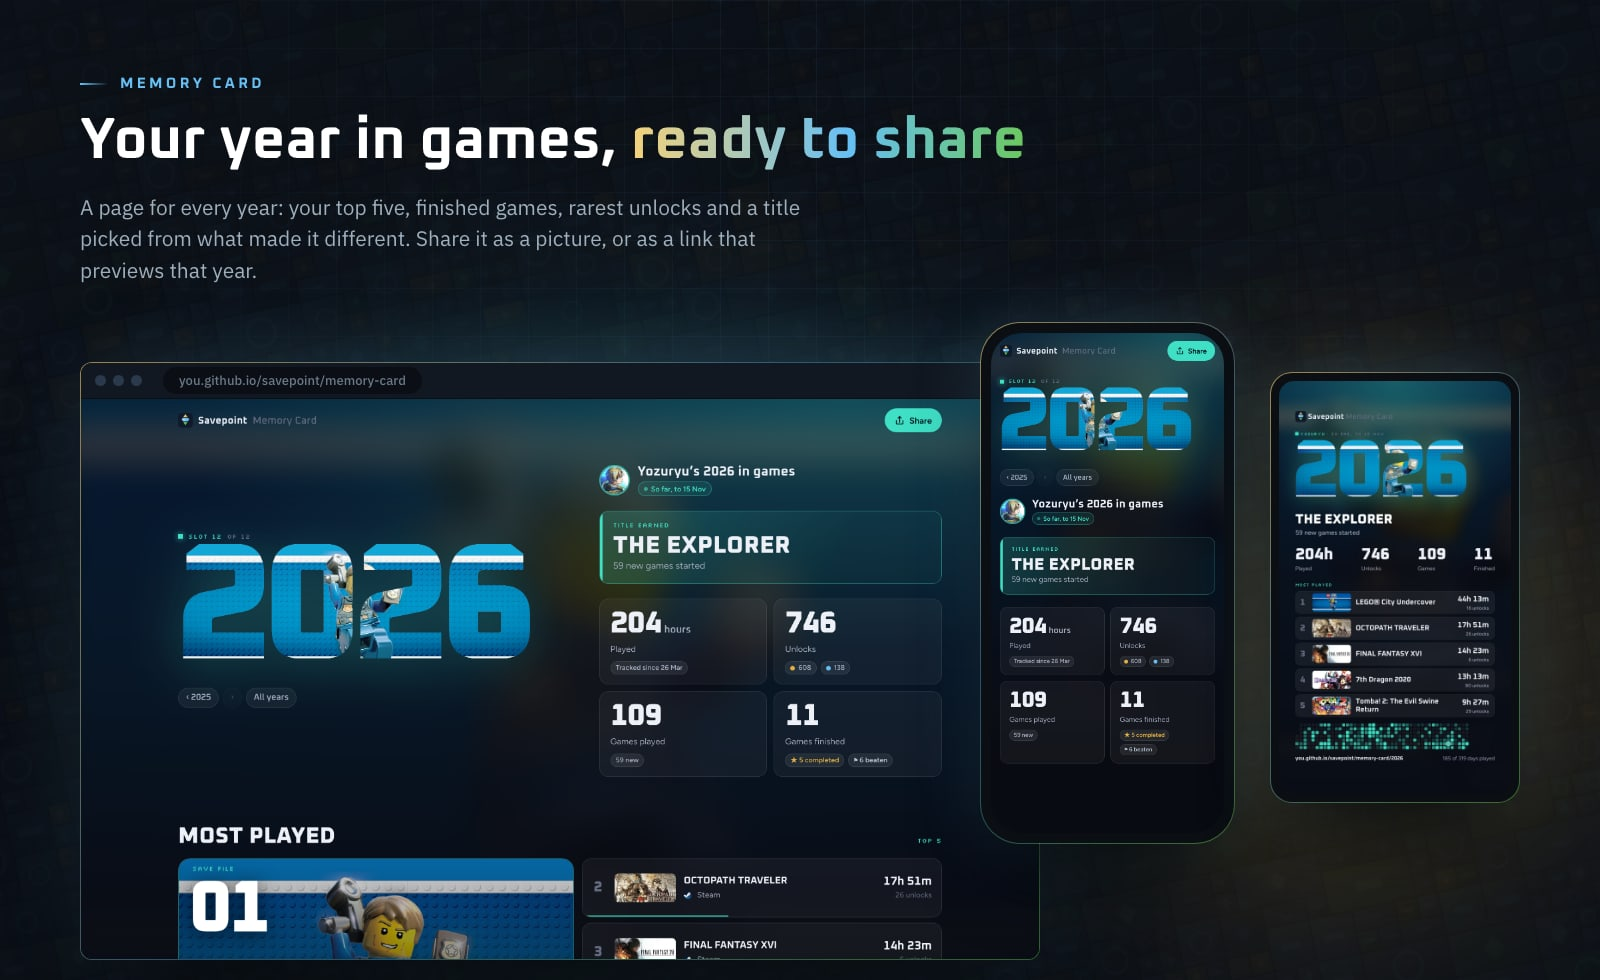
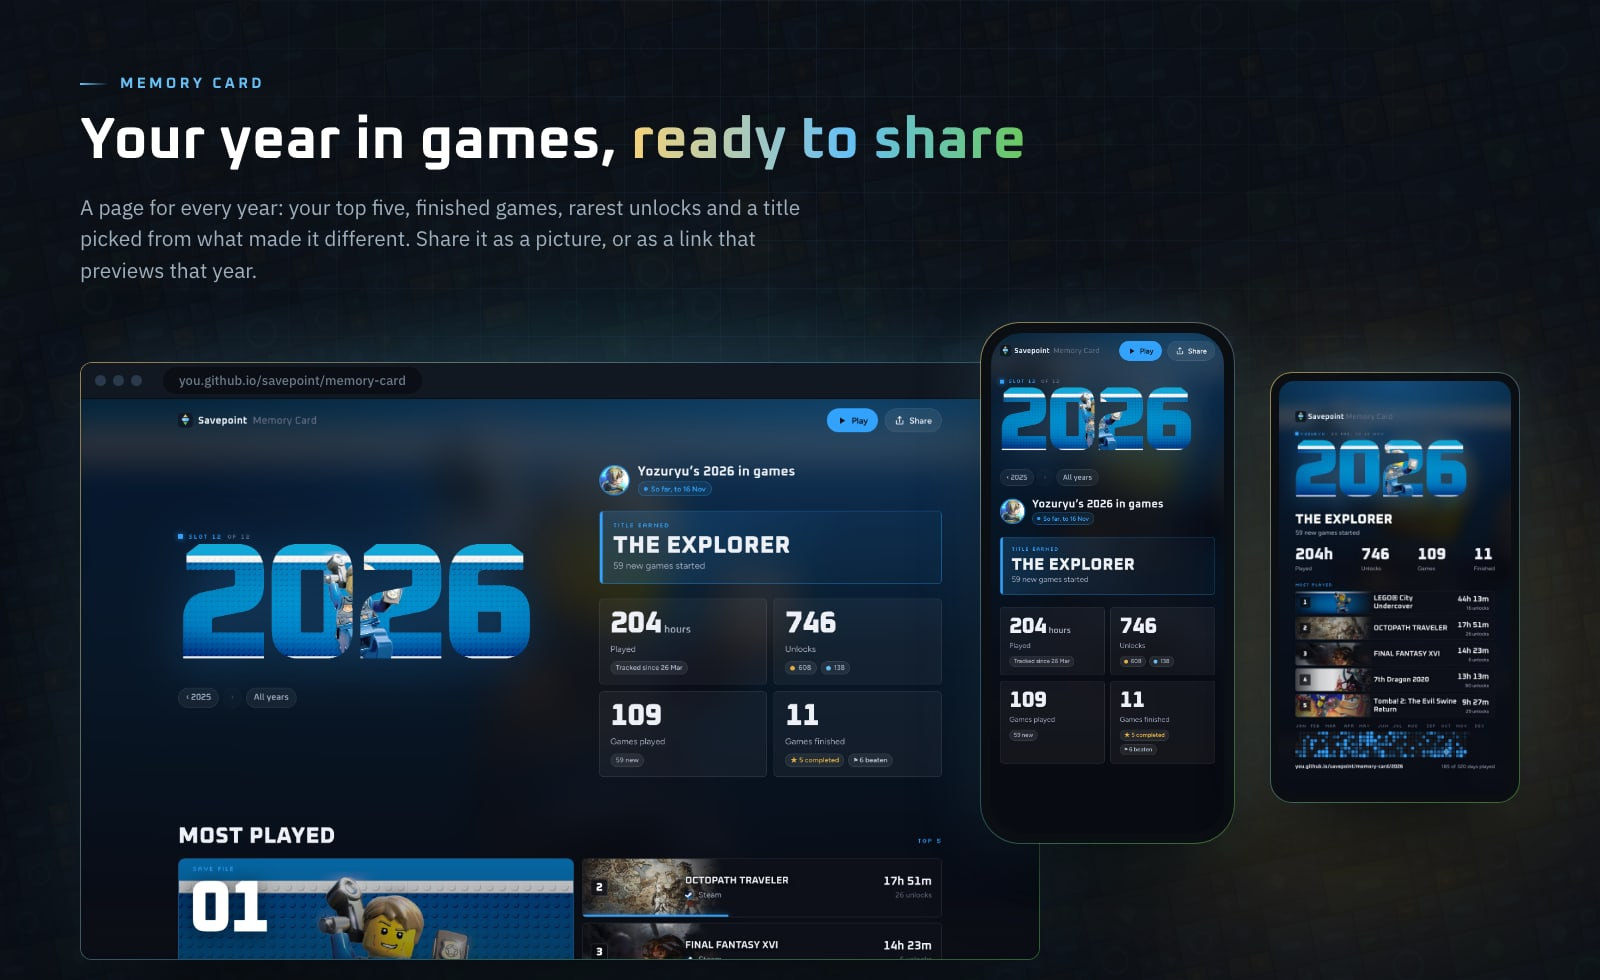
fix(memory-card): top bar name on narrow phones; docs: Memory Card poster with Play and the art colour
Claude-Session: https://claude.ai/code/session_01EeEDGzBuo9DGmypehCTFJi

diff --git a/memory-card/page.html b/memory-card/page.html
@@ -51,7 +51,9 @@
         .bar { display: flex; align-items: center; gap: 10px; padding: calc(14px + env(safe-area-inset-top, 0px)) 0 14px; }
         .brand { display: flex; align-items: center; gap: 8px; font: 700 15px/1 var(--display); letter-spacing: 0.02em; }
         .brand img { width: 22px; height: 22px; }
-        .brand span { color: var(--mute); font-weight: 500; }
+        .brand span { color: var(--mute); font-weight: 500; overflow: hidden; text-overflow: ellipsis; }
+        .bar .brand { min-width: 0; white-space: nowrap; }
+        @media (max-width: 430px) { .bar .brand { font-size: 13px; gap: 6px; } .bar .brand img { width: 20px; height: 20px; } }      /* with Play and Share beside it, the name wrapped on narrow phones */
         .bar .sp { flex: 1; }
         .btn { display: inline-flex; align-items: center; gap: 7px; height: 36px; padding: 0 14px; border-radius: 999px; font: 600 13px/1 var(--body);
             background: rgba(255, 255, 255, 0.07); border: 1px solid var(--line); transition: background-color 150ms, transform 150ms; }

diff --git a/changelog.md b/changelog.md
@@ -17,6 +17,7 @@ Memory Card's story opens every slide with a line of moving type, plays differen
   Each slide is laid out in two halves to fill the screen. A button in the top bar switches back to the tall cards.
 - new: **Memory Card** story cards as wide pictures
   Sharing a slide while the story plays wide sends a 1200 × 630 picture, and the Share sheet's Story section offers the wide ones on a desktop.
+- fix: **Memory Card** name in the top bar no longer wraps on narrow phones
 - improved: **Memory Card** for the running year opens in July
   A year gets its card once six months of it are done; until then the latest card is last year's.
 - fix: **Memory Card** rarest finds in the story no longer squeeze into two columns on a desktop
